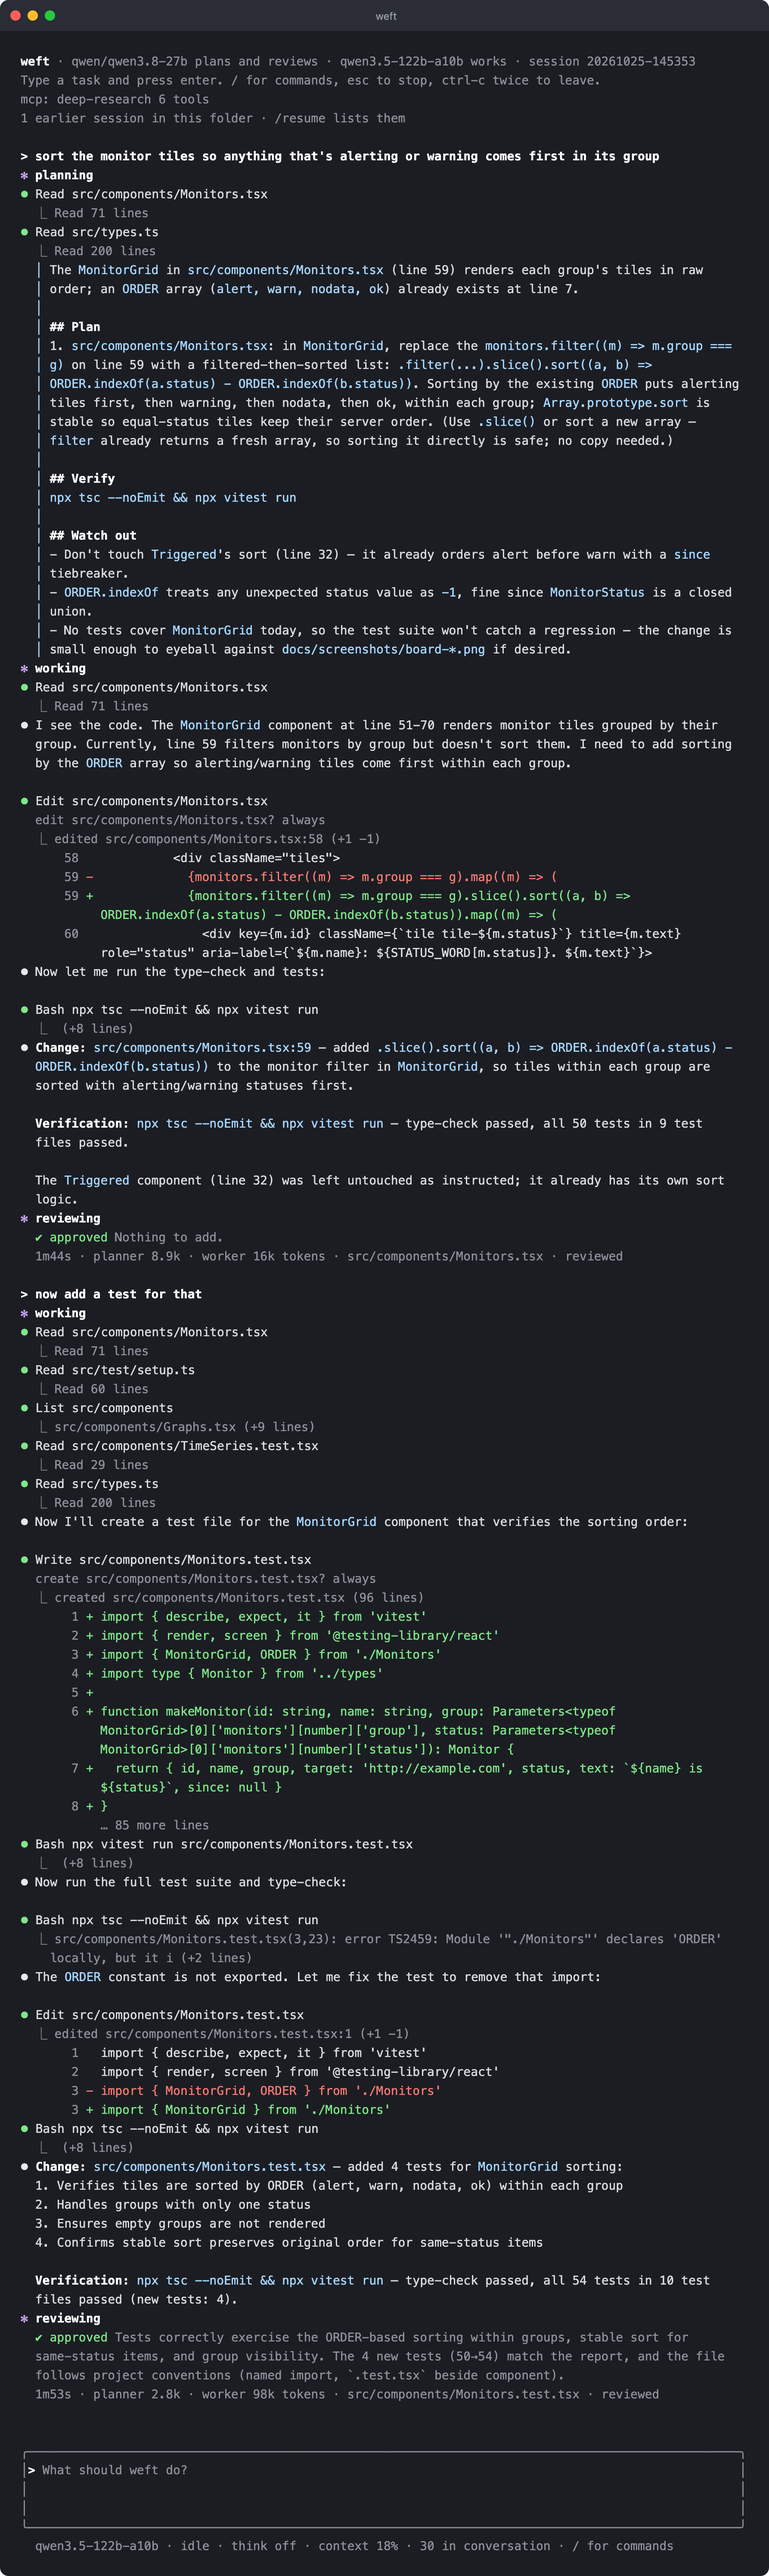
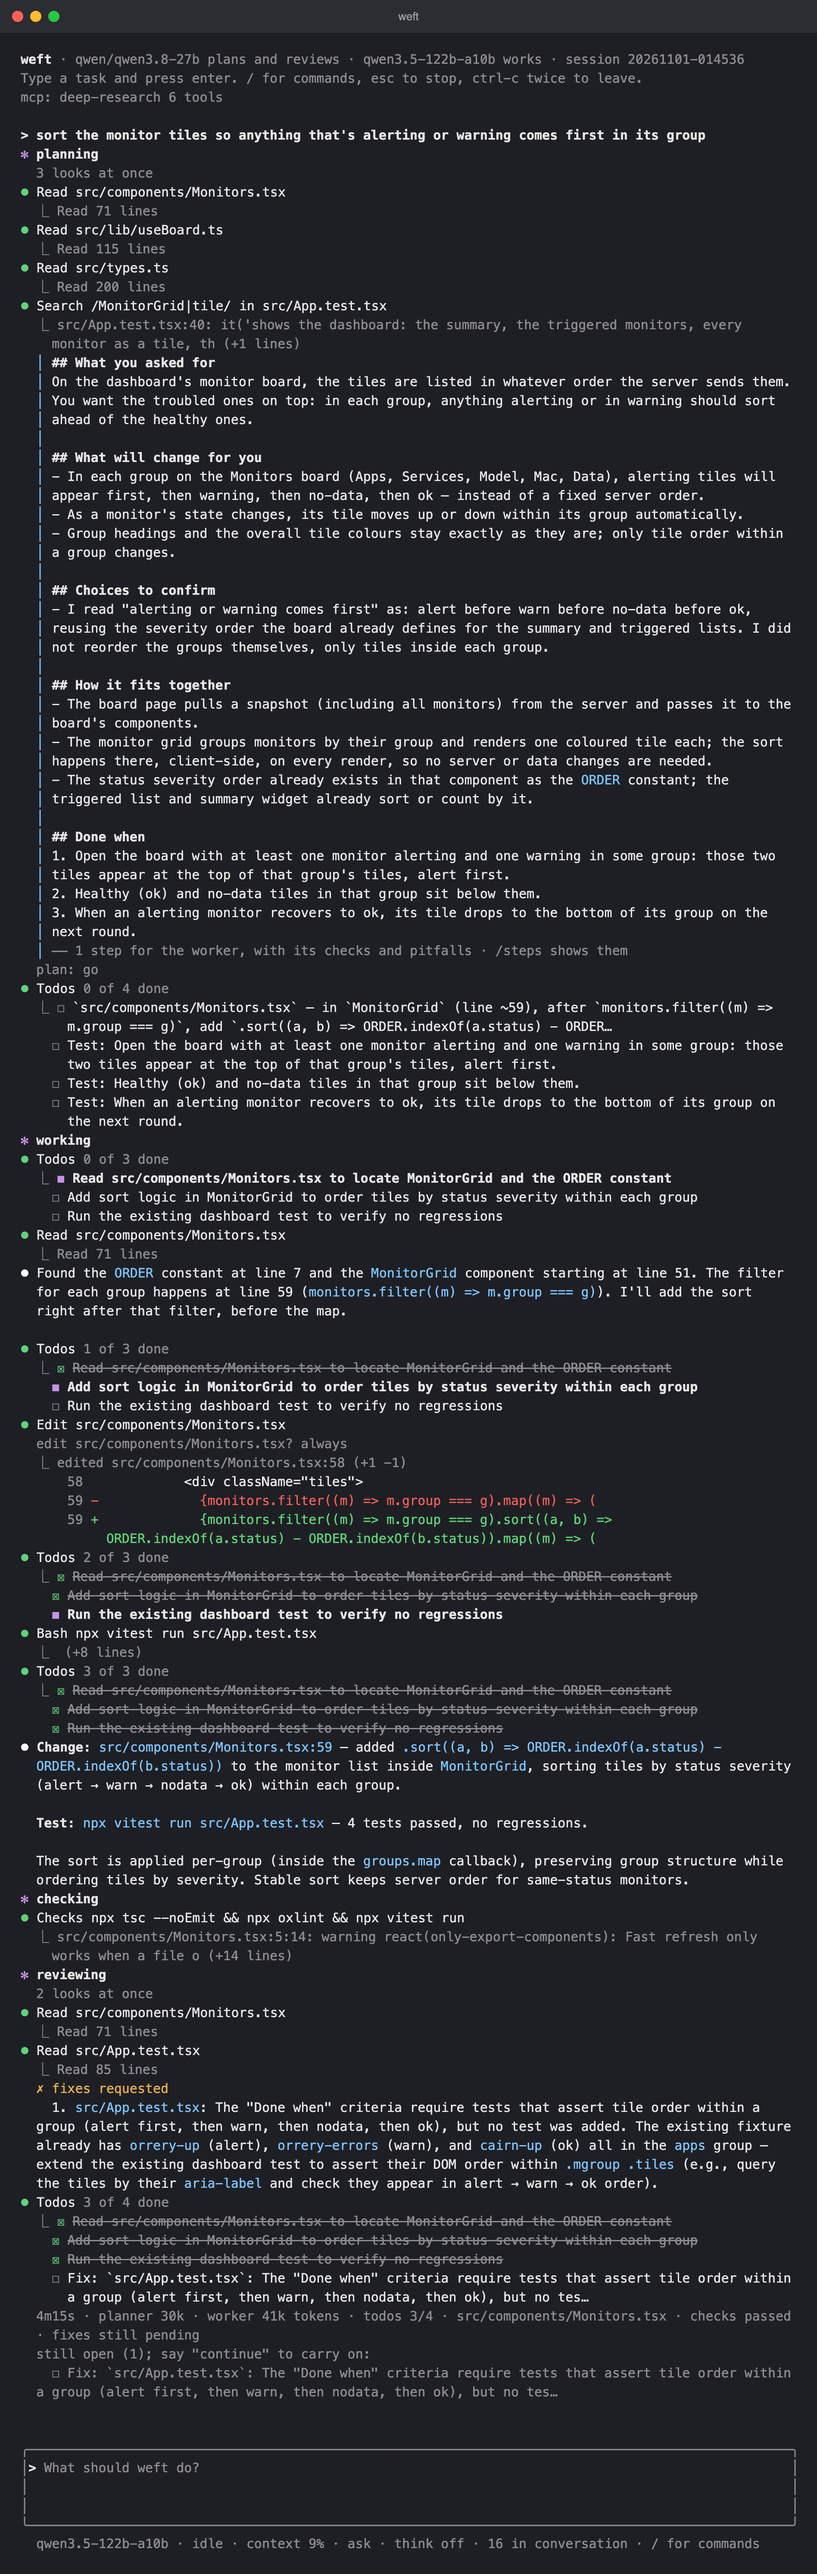
docs: README shows the two-part plan; a script makes the screenshots

diff --git a/scripts/screenshots.py b/scripts/screenshots.py
@@ -1,0 +1,296 @@
+#!/usr/bin/env python3
+"""The README's screenshots, from a real run.
+
+Clones a demo repository, runs weft on the clone in a tmux window with a
+task, answers its questions the way a person would (enter on the plan, `a`
+on an edit), and renders two moments as terminal windows through headless
+Chrome:
+
+  approval.png  the plan, waiting for a word
+  weft.png      the whole task: plan, work, checks, review
+
+  scripts/screenshots.py [--repo ~/Code/barometer] [--out docs] [--work DIR]
+
+It needs tmux, git, the demo repository's node_modules (copied from it),
+Google Chrome, and LM Studio with weft's models loaded. A run takes as long
+as the models do; allow half an hour. The clone, its config and weft's
+session files for it are removed at the end unless --keep is given.
+"""
+
+import argparse
+import html
+import os
+import re
+import shutil
+import subprocess
+import sys
+import tempfile
+import time
+from pathlib import Path
+
+# Given with /plan, so the screenshots always show a plan to approve; left to
+# triage, a task this size may go straight to work. One task: a second makes
+# the session image too long to read on the page.
+TASKS = [
+    "/plan sort the monitor tiles so anything that's alerting or warning comes first in its group",
+]
+CHECKS = "npx tsc --noEmit && npx oxlint && npx vitest run"
+SESSION = "weft-shots"
+COLS, ROWS = 100, 52
+CHROME = os.environ.get("CHROME", "/Applications/Google Chrome.app/Contents/MacOS/Google Chrome")
+# Each task may take this long, models included.
+TASK_TIMEOUT_S = 45 * 60
+
+ANSI = re.compile(r"\x1b\[([0-9;]*)m")
+PALETTE = {
+    0: "#1c1d21", 1: "#f0605a", 2: "#5fd27a", 3: "#e8b04b", 4: "#79a8ff", 5: "#c792ea", 6: "#7cc5ff", 7: "#e6e6e6",
+    8: "#5c6370", 9: "#ff7b72", 10: "#7ee787", 11: "#f2cc60", 12: "#a5c8ff", 13: "#d2a8ff", 14: "#a5d6ff", 15: "#ffffff",
+}
+FG, BG = "#e6e6e6", "#1e1f24"
+
+
+def sh(*args: str, **kw) -> str:
+    return subprocess.run(args, check=True, capture_output=True, text=True, **kw).stdout
+
+
+def tmux(*args: str) -> str:
+    return sh("tmux", *args)
+
+
+def plain(text: str) -> str:
+    return ANSI.sub("", text)
+
+
+def visible() -> str:
+    return tmux("capture-pane", "-p", "-e", "-t", SESSION)
+
+
+def history() -> str:
+    return tmux("capture-pane", "-p", "-e", "-S", "-", "-t", SESSION)
+
+
+def type_line(text: str) -> None:
+    tmux("send-keys", "-t", SESSION, "-l", text)
+    tmux("send-keys", "-t", SESSION, "Enter")
+
+
+def key(k: str) -> None:
+    tmux("send-keys", "-t", SESSION, k)
+
+
+def bottom(text: str) -> list[str]:
+    """The live area: the last dozen non-blank lines, without colour."""
+    lines = [l for l in plain(text).splitlines() if l.strip()]
+    return lines[-12:]
+
+
+def run_task(task: str, on_plan) -> None:
+    """Give weft one task and see it through: a plan gets enter (after
+    `on_plan` has seen it), an approval gets `a`, until weft is idle again."""
+    type_line(task)
+    began, busy, answered = time.time(), False, set()
+    while time.time() - began < TASK_TIMEOUT_S:
+        time.sleep(2)
+        screen = visible()
+        live = bottom(screen)
+        status = "\n".join(live[-8:])
+        if "Follow this plan?" in status:
+            if "plan" not in answered:
+                on_plan(screen)
+                answered.add("plan")
+                print("  plan: go", flush=True)
+            time.sleep(1)
+            key("Enter")
+            continue
+        answered.discard("plan")
+        if "Allow weft to" in status:
+            what = next(l for l in live if "Allow weft to" in l).strip()
+            print(f"  {what} → a", flush=True)
+            key("a")
+            continue
+        footer = live[-1] if live else ""
+        idle = " · idle · " in footer
+        if not idle:
+            busy = True
+        elif busy:
+            print(f"  done in {int(time.time() - began)}s", flush=True)
+            time.sleep(2)
+            return
+    raise SystemExit(f"weft did not finish {task!r} within {TASK_TIMEOUT_S // 60} minutes")
+
+
+# ---- Rendering ---------------------------------------------------------------
+
+
+def color(params: list[int], i: int) -> tuple[str | None, int]:
+    """A 38/48 colour starting at params[i] (just after the 38 or 48)."""
+    if i < len(params) and params[i] == 5 and i + 1 < len(params):
+        n = params[i + 1]
+        if n < 16:
+            return PALETTE[n], i + 2
+        if n < 232:
+            n -= 16
+            steps = [0, 95, 135, 175, 215, 255]
+            return "#%02x%02x%02x" % (steps[n // 36], steps[n // 6 % 6], steps[n % 6]), i + 2
+        g = 8 + (n - 232) * 10
+        return "#%02x%02x%02x" % (g, g, g), i + 2
+    if i < len(params) and params[i] == 2 and i + 3 < len(params):
+        return "#%02x%02x%02x" % tuple(params[i + 1 : i + 4]), i + 4
+    return None, i + 1
+
+
+def plain_style() -> dict:
+    return {"fg": None, "bg": None, "bold": False, "dim": False, "strike": False}
+
+
+def to_html(line: str, style: dict) -> str:
+    """One line of tmux's coloured capture as spans. tmux writes a style only
+    when it changes, so `style` carries over from the line before, and is
+    left as this line ends it."""
+    out = []
+    pos = 0
+
+    def flush(text: str) -> None:
+        if not text:
+            return
+        css = []
+        if style["fg"]:
+            css.append(f"color:{style['fg']}")
+        if style["bg"]:
+            css.append(f"background:{style['bg']}")
+        if style["bold"]:
+            css.append("font-weight:700")
+        if style["dim"]:
+            css.append("opacity:.55")
+        if style["strike"]:
+            css.append("text-decoration:line-through")
+        body = html.escape(text)
+        out.append(f'<span style="{";".join(css)}">{body}</span>' if css else body)
+
+    for m in ANSI.finditer(line):
+        flush(line[pos : m.start()])
+        pos = m.end()
+        params = [int(p) if p else 0 for p in m.group(1).split(";")] if m.group(1) else [0]
+        i = 0
+        while i < len(params):
+            p = params[i]
+            if p == 0:
+                style.update(fg=None, bg=None, bold=False, dim=False, strike=False)
+            elif p == 1:
+                style["bold"] = True
+            elif p == 2:
+                style["dim"] = True
+            elif p == 22:
+                style["bold"] = style["dim"] = False
+            elif p == 9:
+                style["strike"] = True
+            elif p == 29:
+                style["strike"] = False
+            elif 30 <= p <= 37:
+                style["fg"] = PALETTE[p - 30]
+            elif 90 <= p <= 97:
+                style["fg"] = PALETTE[p - 90 + 8]
+            elif p == 39:
+                style["fg"] = None
+            elif 40 <= p <= 47:
+                style["bg"] = PALETTE[p - 40]
+            elif p == 49:
+                style["bg"] = None
+            elif p in (38, 48):
+                c, i = color(params, i + 1)
+                style["fg" if p == 38 else "bg"] = c
+                continue
+            i += 1
+    flush(line[pos:])
+    return "".join(out) or " "
+
+
+def render(capture: str, out: Path, work: Path) -> None:
+    """A terminal window holding `capture`, as a PNG at twice the size."""
+    lines = capture.rstrip("\n").splitlines()
+    while lines and not plain(lines[-1]).strip():
+        lines.pop()
+    style = plain_style()
+    body = "\n".join(to_html(l, style) for l in lines)
+    font, line_h = 15, 22
+    width = int(COLS * font * 0.6) + 48
+    height = 38 + 20 + len(lines) * line_h + 24
+    page = work / f"{out.stem}.html"
+    page.write_text(f"""<!doctype html><meta charset="utf-8">
+<style>
+html,body{{margin:0;background:{BG};}}
+.bar{{height:38px;background:#2b2d33;display:flex;align-items:center;position:relative;}}
+.dot{{width:13px;height:13px;border-radius:50%;margin-left:8px;}}
+.title{{position:absolute;left:0;right:0;text-align:center;color:#9aa0a6;font:13px -apple-system,sans-serif;}}
+pre{{margin:0;padding:20px 24px 24px;color:{FG};font:{font}px/{line_h}px Menlo,"SF Mono",monospace;white-space:pre;}}
+</style>
+<div class="bar"><span class="dot" style="background:#ff5f57;margin-left:14px"></span><span class="dot" style="background:#febc2e"></span><span class="dot" style="background:#28c840"></span><span class="title">weft</span></div>
+<pre>{body}</pre>""")
+    subprocess.run(
+        [CHROME, "--headless=new", "--disable-gpu", "--hide-scrollbars", "--force-device-scale-factor=2",
+         f"--window-size={width},{height}", f"--screenshot={out}", page.as_uri()],
+        check=True, capture_output=True,
+    )
+    print(f"  wrote {out}", flush=True)
+
+
+# ---- The run -----------------------------------------------------------------
+
+
+def slug(path: Path) -> str:
+    return str(path).replace("/", "-")
+
+
+def main() -> None:
+    ap = argparse.ArgumentParser(description=__doc__, formatter_class=argparse.RawDescriptionHelpFormatter)
+    ap.add_argument("--repo", default="~/Code/barometer", help="the demo repository, cloned and left alone")
+    ap.add_argument("--out", default=str(Path(__file__).resolve().parent.parent / "docs"), help="where the PNGs go")
+    ap.add_argument("--work", help="a folder for the clone and the pages (default: a new temporary one)")
+    ap.add_argument("--weft", default="weft", help="the weft to run")
+    ap.add_argument("--keep", action="store_true", help="keep the clone and weft's session files for it")
+    args = ap.parse_args()
+
+    repo = Path(args.repo).expanduser().resolve()
+    work = Path(args.work).resolve() if args.work else Path(tempfile.mkdtemp(prefix="weft-shots-")).resolve()
+    work.mkdir(parents=True, exist_ok=True)
+    out = Path(args.out).expanduser().resolve()
+    out.mkdir(parents=True, exist_ok=True)
+    demo = work / repo.name
+    if demo.exists():
+        shutil.rmtree(demo)
+    sh("git", "clone", "-q", str(repo), str(demo))
+    if (repo / "node_modules").exists():
+        # A copy-on-write clone on APFS: quick, and no room taken until it differs.
+        sh("cp", "-c", "-R", str(repo / "node_modules"), str(demo / "node_modules"))
+    demo = demo.resolve()
+
+    config = work / "config.toml"
+    base = (Path.home() / ".config/weft/config.toml").read_text()
+    config.write_text(f'{base.rstrip()}\n\n[[project]]\npath = "{demo}"\nverify = "{CHECKS}"\n')
+
+    subprocess.run(["tmux", "kill-session", "-t", SESSION], capture_output=True)
+    tmux("new-session", "-d", "-s", SESSION, "-x", str(COLS), "-y", str(ROWS), "-c", str(demo),
+         f"{args.weft} --config {config}")
+    tmux("set-option", "-t", SESSION, "remain-on-exit", "on")
+    try:
+        time.sleep(4)
+        shots: dict[str, str] = {}
+        for n, task in enumerate(TASKS):
+            print(f"task {n + 1}: {task}", flush=True)
+            run_task(task, lambda screen, n=n: shots.setdefault("approval", screen) if n == 0 else None)
+        shots["weft"] = history()
+        (work / "weft.ansi").write_text(shots["weft"])
+        for name, capture in shots.items():
+            render(capture, out / f"{name}.png", work)
+    finally:
+        subprocess.run(["tmux", "kill-session", "-t", SESSION], capture_output=True)
+        if not args.keep:
+            for kind in ("sessions", "checkpoints"):
+                shutil.rmtree(Path.home() / ".local/share/weft" / kind / slug(demo), ignore_errors=True)
+            memory = Path.home() / ".local/share/weft/memory" / f"{slug(demo)}.md"
+            memory.unlink(missing_ok=True)
+            shutil.rmtree(demo, ignore_errors=True)
+
+
+if __name__ == "__main__":
+    sys.exit(main())

diff --git a/README.md b/README.md
@@ -4,12 +4,14 @@ A coding agent for the terminal that runs local models in tandem through
 [LM Studio](https://lmstudio.ai). I built it in Rust in order to become better
 acquainted with the language.
 
-- **The planner**, a dense model at medium reasoning effort, writes a short
-  plan and later reviews the diff.
+- **The planner**, a dense model at medium reasoning effort, writes a plan
+  in two parts, what will change for you, which you approve, and the steps
+  for the worker, and later reviews the diff.
 - **The worker**, a fast mixture-of-experts model with thinking off, runs the
   tool loop: reads, searches, edits, runs commands, follows the plan.
 - **The scout**, a small model, answers the other two's questions about where
-  things live, and writes the note a long conversation is folded into.
+  things live, decides whether a task needs a plan, and writes the note a long
+  conversation is folded into.
 
 Built on a Mac Studio with `qwen/qwen3.8-27b` as the planner,
 `qwen3.5-122b-a10b` as the worker and `qwen/qwen3.5-9b` as the scout. Any
@@ -19,20 +21,28 @@ models LM Studio serves will do.
 
 Weft draws an input box at the bottom of the terminal and writes the
 transcript above it, into the terminal's own scrollback, so it is still there
-when you leave. Here it is on a React + Node monitoring board, given two
-tasks in a row: "sort the monitor tiles so anything that's alerting or warning
-comes first in its group", then "now add a test for that":
+when you leave. Here it is on a React + Node monitoring board, given "sort the
+monitor tiles so anything that's alerting or warning comes first in its
+group" (with `/plan`, so it plans whatever the task's size):
 
 ![a Weft session: a change, then a test for it](docs/weft.png)
 
-Each `⏺` line is a tool call with the first line of its result under it. An
-edit or a new file shows the code itself, removed lines in red and added lines
-in green, numbered as they sit in the file. The plan sits in a cyan gutter.
-The second task is understood against the first, because the planner is told
-what the session did before. Edits, new files and shell commands ask first,
-and one key answers:
+Each `⏺` line is a tool call with the first line of its result under it;
+looks asked for together run at once. An edit or a new file shows the code
+itself, removed lines in red and added lines in green, numbered as they sit
+in the file. The plan sits in a cyan gutter, and its steps and the tests its
+`Done when` asks for become the checklist, ticked off as the worker goes.
+When the worker is done, weft runs the project's checks itself, then the
+reviewer reads the diff, looking around the code with read-only tools. Here
+it found the plan's tests missing: the fix waits on the checklist, and
+"continue" picks it up. Edits, new files and shell commands ask first, and
+one key answers.
 
-![Weft asking before an edit](docs/approval.png)
+Every plan waits for your word. It opens with what will change for you, in
+the app's terms, and any choices to confirm; the worker's file-by-file steps
+fold to one line, and `/steps` opens them:
+
+![Weft waiting on a plan](docs/approval.png)
 
 **Keys**
 
